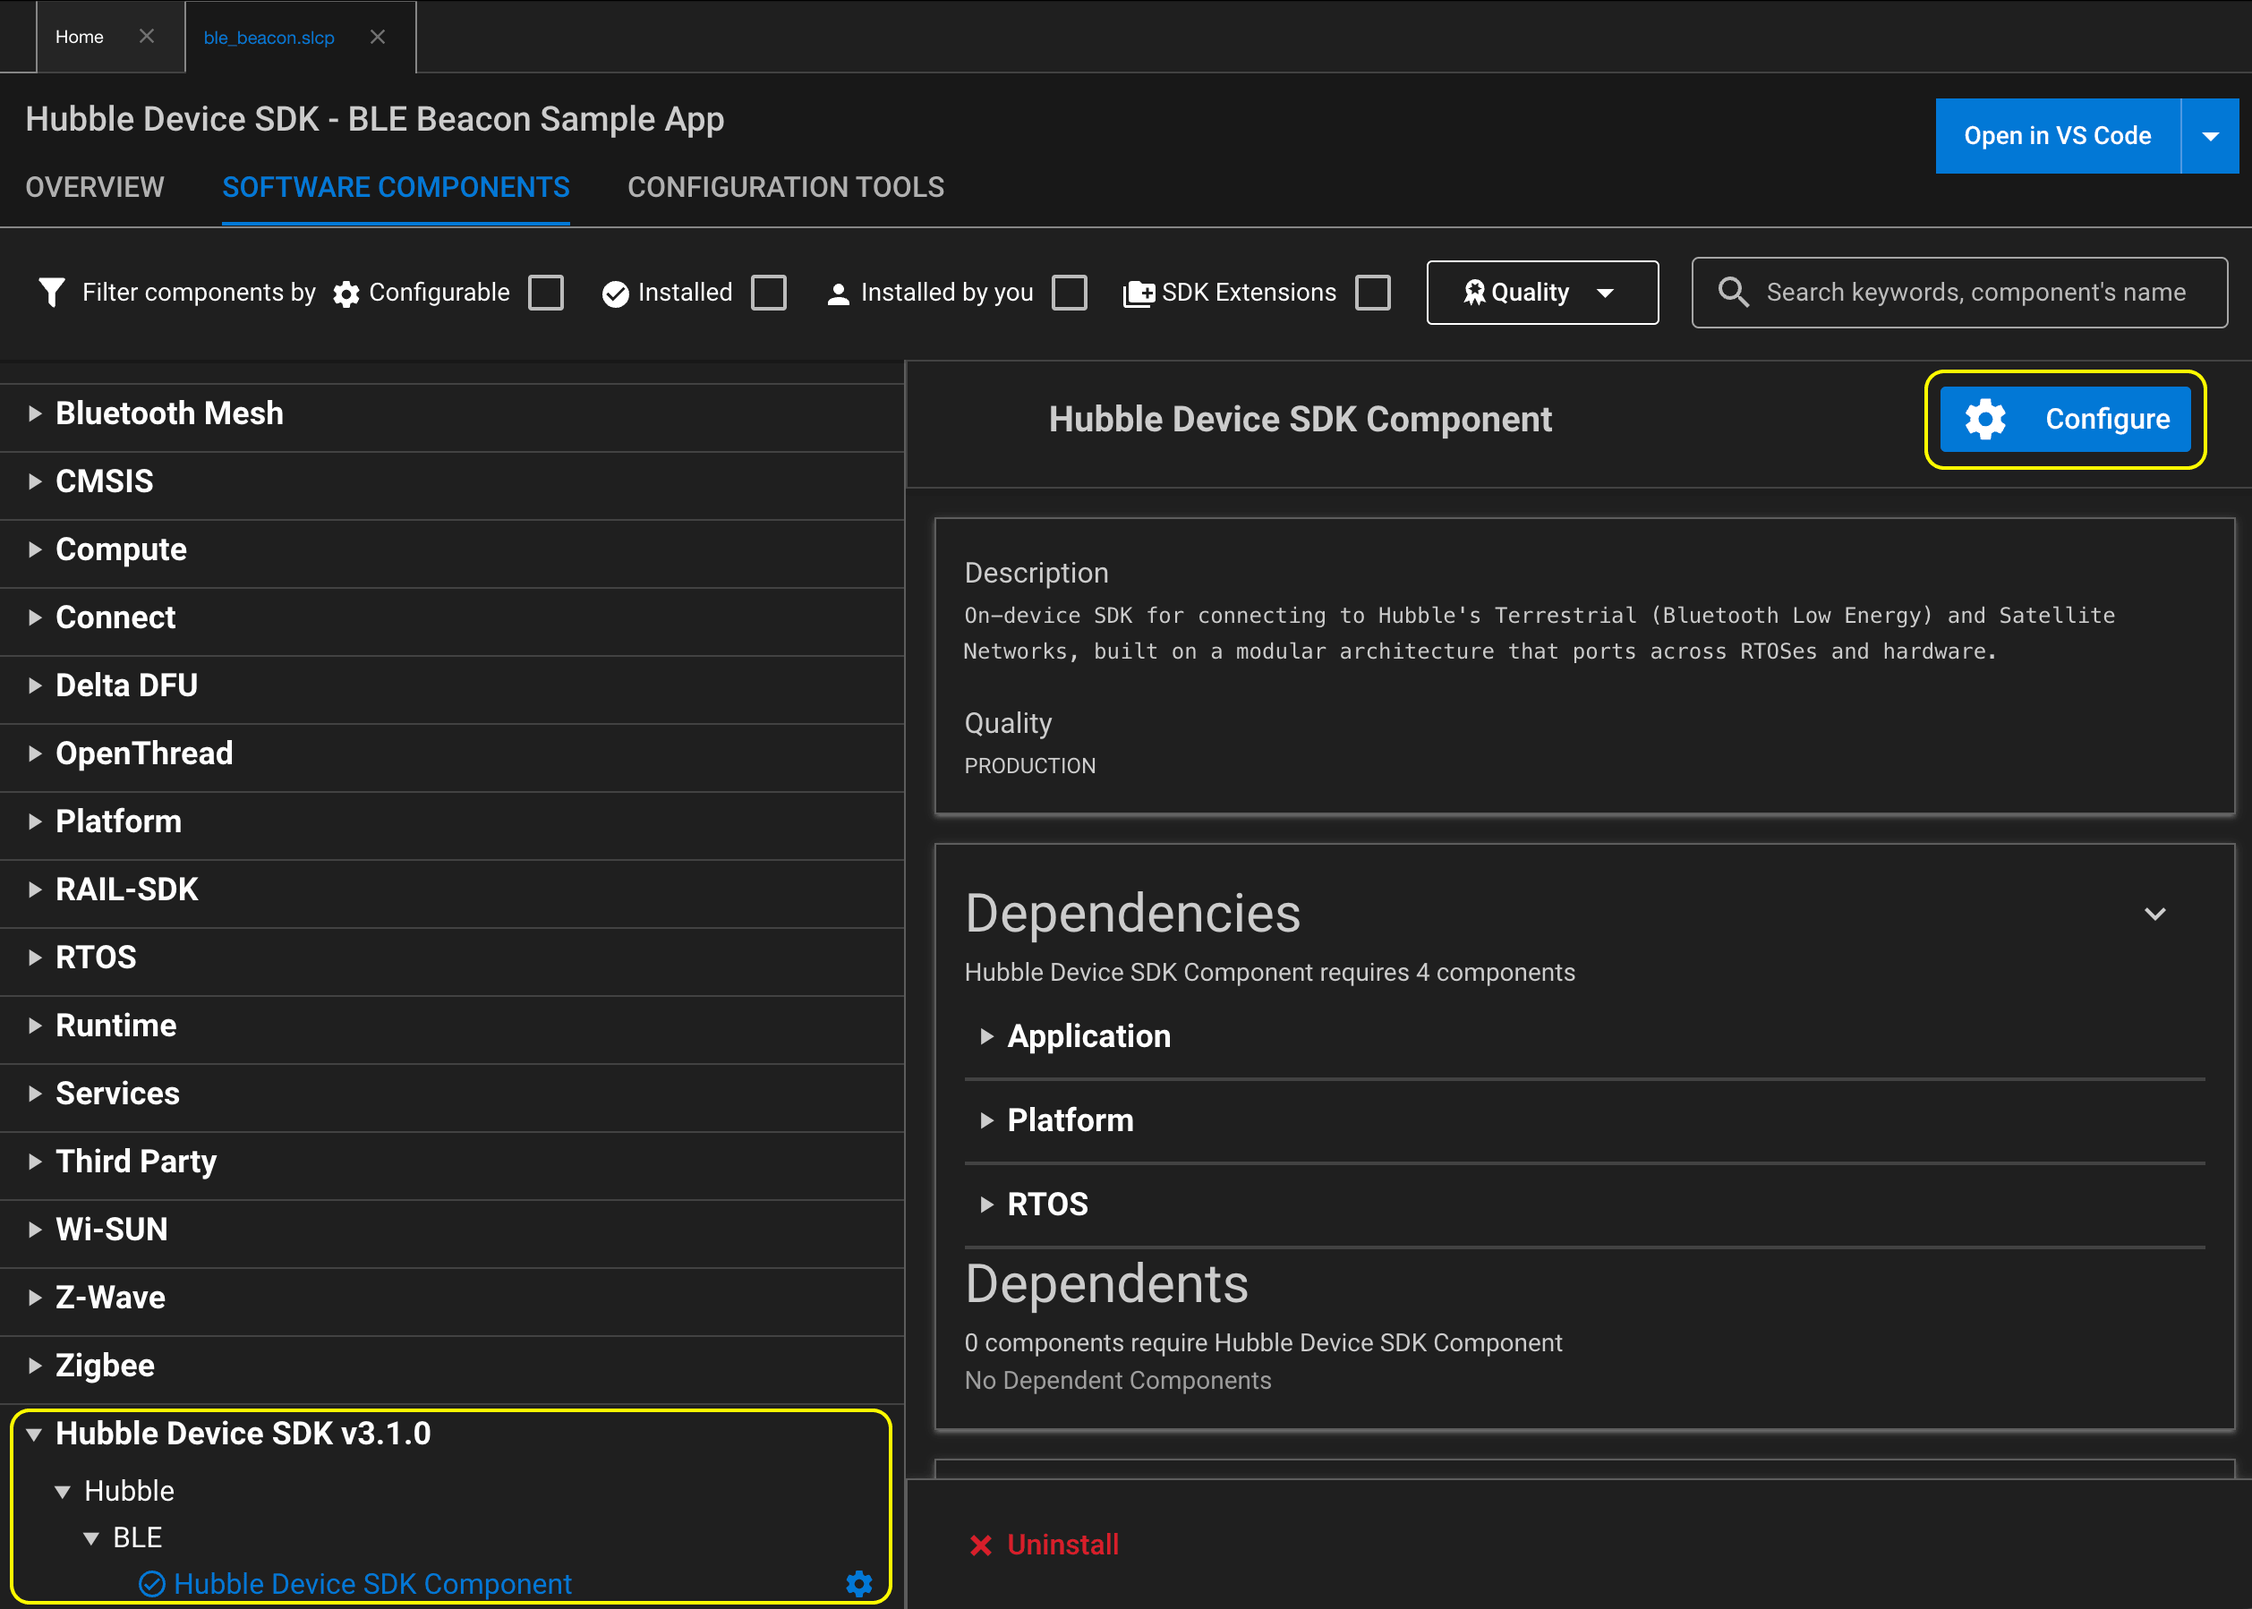
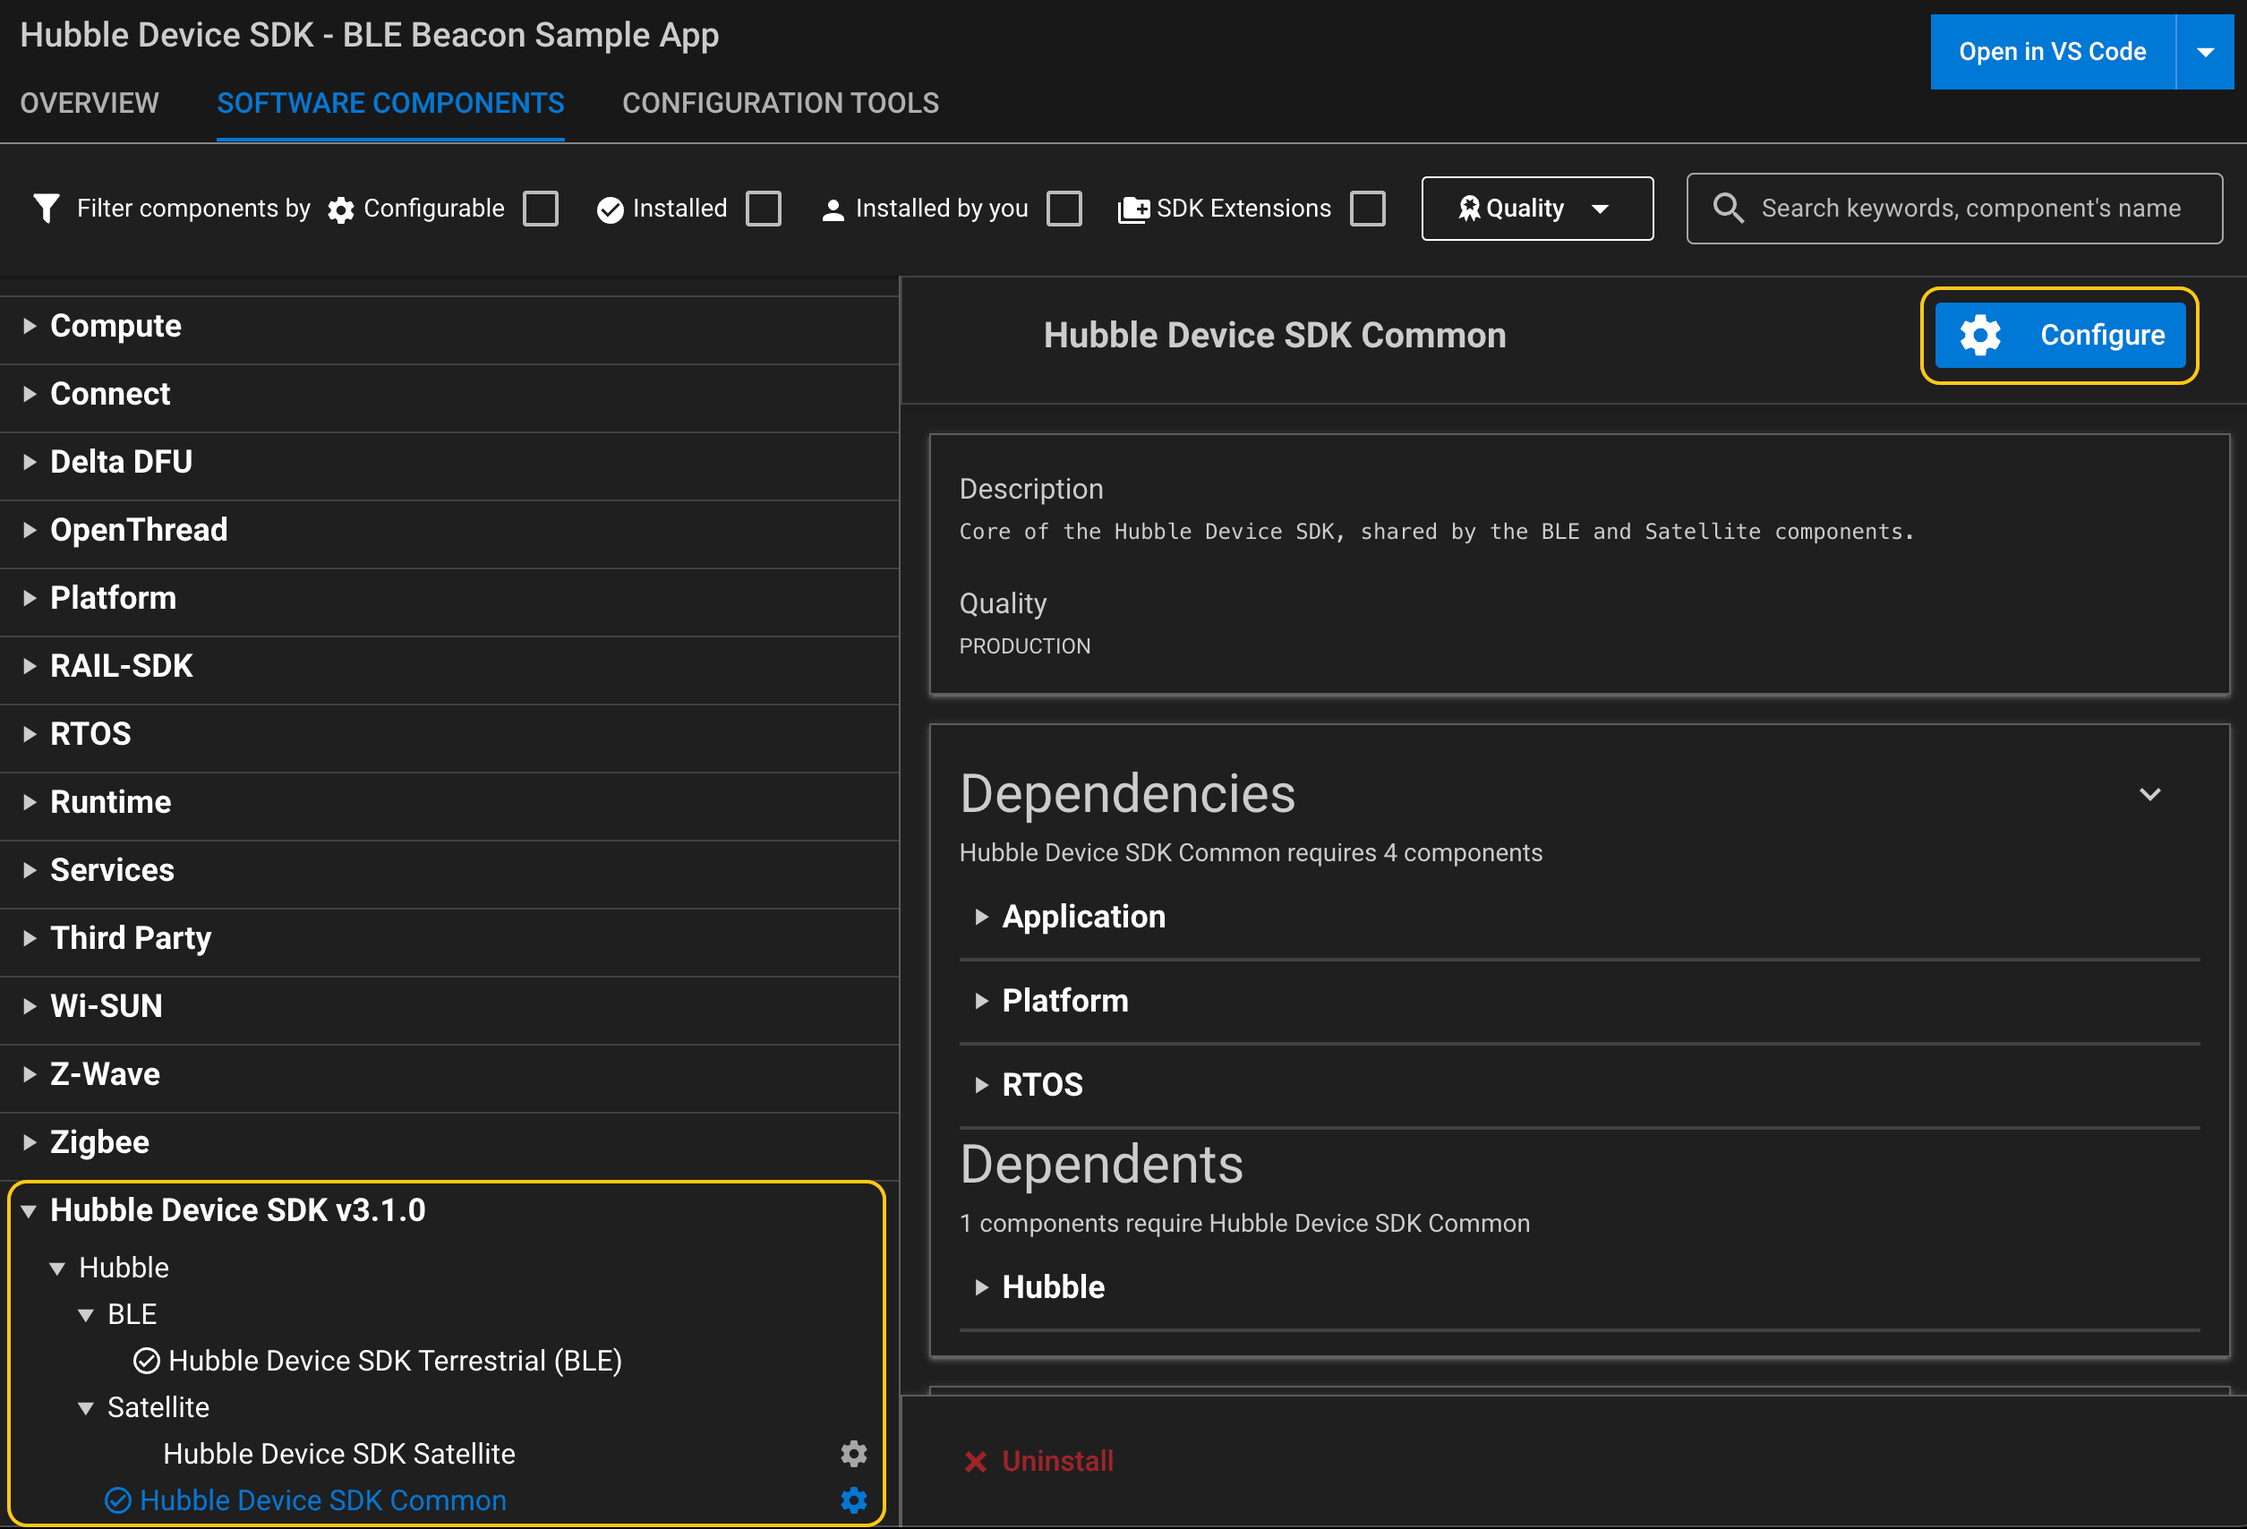
docs: quickstart/silabs: update guide to include satellite component
Update quickstart guide to include satellite component, and reflect
the new component split: common, BLE, and satellite.

diff --git a/docs/quickstart/silabs/index.rst b/docs/quickstart/silabs/index.rst
@@ -10,10 +10,11 @@ This guide explains how to integrate the Hubble Device SDK into a
 ``.slcp`` file, and the SLC tooling pulls in the SDK sources, include paths,
 and configuration.
 
-.. note::
+.. seealso::
 
-   Only the Hubble Terrestrial (BLE) Network is currently supported on
-   Simplicity SDK FreeRTOS.
+   This page covers Simplicity SDK setup and adding the Hubble components.
+   For a complete, end-to-end **satellite dual-stack** application on SiLabs
+   FreeRTOS, see the :ref:`silabs_freertos_integration_guide`.
 
 Prerequisites
 *************
@@ -24,8 +25,8 @@ Prerequisites
 
       - `Simplicity Studio 6 <https://www.silabs.com/developer-tools/simplicity-studio>`_
         with the Simplicity SDK installed.
-      - The ``slc-cli`` tool, which is still needed to install the extension
-        (see :ref:`silabs_install_extension`).
+      - The ``slc-cli`` tool, which is still needed to generate the sample
+        project (see :ref:`silabs_quick_start_build`).
 
    .. tab:: Command line
 
@@ -34,7 +35,9 @@ Prerequisites
       Simplicity Commander (``commander``), installed with the
       `Silicon Labs Tool (SLT) <https://docs.silabs.com/simplicity-installer-slt/latest/slt-getting-started-slt-cli/first-time-installation-setup>`_.
 
-- A Silicon Labs board with Bluetooth® Low Energy support.
+- A Silicon Labs board with Bluetooth® Low Energy support for the Hubble
+  Terrestrial (BLE) Network, or a satellite-capable board for the Hubble
+  Satellite Network.
 - The Hubble Device SDK cloned or added as a submodule.
 - Device ``key`` (generated when you register a new device to your organization
   through the Hubble Cloud API).
@@ -59,18 +62,28 @@ Set the following environment variables before continuing, e.g.:
 Installing the Extension
 ************************
 
-SLC discovers extensions under the Simplicity SDK's ``extension`` directory.
-Link the Hubble Device SDK there and register both the SDK and the extension
-as trusted:
+.. tabs::
 
-.. code-block:: bash
+   .. tab:: Simplicity Studio
 
-   mkdir -p $SISDK/extension
-   ln -s $HUBBLE_SDK $SISDK/extension/hubble-device-sdk
+      #. Go to **Settings** → **SDKs** and select the Simplicity SDK version
+         you want to use.
+      #. Click **Add Extension**, then **Browse** to the directory where you
+         cloned the Hubble Device SDK, and click **Finish**.
+      #. In the **Verify SDK Extensions** dialog, click **Trust**.
 
-   $SLC configuration --sdk $SISDK
-   $SLC signature trust --sdk $SISDK
-   $SLC signature trust -extpath $SISDK/extension/hubble-device-sdk
+   .. tab:: Command line
+
+      SLC discovers extensions under the Simplicity SDK's ``extension``
+      directory. Link the Hubble Device SDK there and register the extension
+      as trusted:
+
+      .. code-block:: bash
+
+         mkdir -p $SISDK/extension
+         ln -s $HUBBLE_SDK $SISDK/extension/hubble-device-sdk
+
+         $SLC signature trust -extpath $SISDK/extension/hubble-device-sdk
 
 
 Adding Hubble Network to a Project
@@ -94,8 +107,11 @@ Adding Hubble Network to a Project
             :align: center
             :class: step-image
 
-      3. Select **Hubble Device SDK Component** (under **Hubble** → **BLE**)
-         and click **Install**.
+      3. Select the component for the network you want and click **Install**.
+         Install both for a dual-stack application:
+
+         - **Hubble Device SDK Terrestrial (BLE)** (under **Hubble** → **BLE**)
+         - **Hubble Device SDK Satellite** (under **Hubble** → **Satellite**)
 
          .. image:: img/QuickStart_Silabs_Install.webp
             :alt: Installing the Hubble Device SDK Component
@@ -105,7 +121,8 @@ Adding Hubble Network to a Project
    .. tab:: Command line
 
       Declare the extension in your project's ``.slcp`` file and add the
-      Hubble component:
+      Hubble component for the network you want. Add both for a dual-stack
+      application:
 
       .. code-block:: yaml
 
@@ -116,23 +133,29 @@ Adding Hubble Network to a Project
              version: 3.1.0
 
          component:
-           - id: hubble-device-sdk-component
+           - id: hubble-device-sdk-ble
+             from: hubble-device-sdk
+           - id: hubble-device-sdk-sat
              from: hubble-device-sdk
 
 
 Configuration
 *************
 
-The SDK is configured through ``hubble_config.h``. See
-``$HUBBLE_SDK/port/sisdk/hubble_config.h`` for the available options and
-their defaults.
+The SDK is configured through ``hubble_config.h`` (common options) and
+``hubble_sat_config.h`` (satellite options). See ``$HUBBLE_SDK/port/sisdk/``
+for the available options and their defaults.
 
 .. tabs::
 
    .. tab:: Simplicity Studio
 
-      In the Project Configurator, open **Software Components**, select
-      **Hubble Device SDK Component**, and click **Configure**.
+      In the Project Configurator, open **Software Components**, select the
+      component and click **Configure**:
+
+      - **Hubble Device SDK Common** (under **Hubble**) for the common options.
+      - **Hubble Device SDK Satellite** (under **Hubble** → **Satellite**) for
+        the satellite options.
 
       .. image:: img/QuickStart_Silabs_Configure.webp
          :alt: Configuring the Hubble Device SDK Component
@@ -150,6 +173,8 @@ their defaults.
            - name: SISDK_HUBBLE_NETWORK_SEQUENCE_NONCE_CUSTOM
              value: "1"
 
+
+.. _silabs_quick_start_build:
 
 Building and Running Your First Application
 *******************************************
@@ -172,7 +197,7 @@ Embed the device key and the current time into the sample sources:
 
       .. code-block:: bash
 
-         $SLC generate -tlcn gcc -np -p ble_beacon.slcp \
+         $SLC generate --sdk $SISDK -tlcn gcc -np -p ble_beacon.slcp \
              -d /path/to/workspace/ble-beacon --with brd4187c
 
       Then in Simplicity Studio go to **PROJECTS** → **Open Project(s)**,
@@ -185,7 +210,7 @@ Embed the device key and the current time into the sample sources:
 
       .. code-block:: bash
 
-         $SLC generate -tlcn gcc -o makefile -cp -p ble_beacon.slcp \
+         $SLC generate --sdk $SISDK -tlcn gcc -o makefile -cp -p ble_beacon.slcp \
              -d generated_sample_app --with brd4187c
          cd generated_sample_app
          make -f ble_beacon.Makefile
